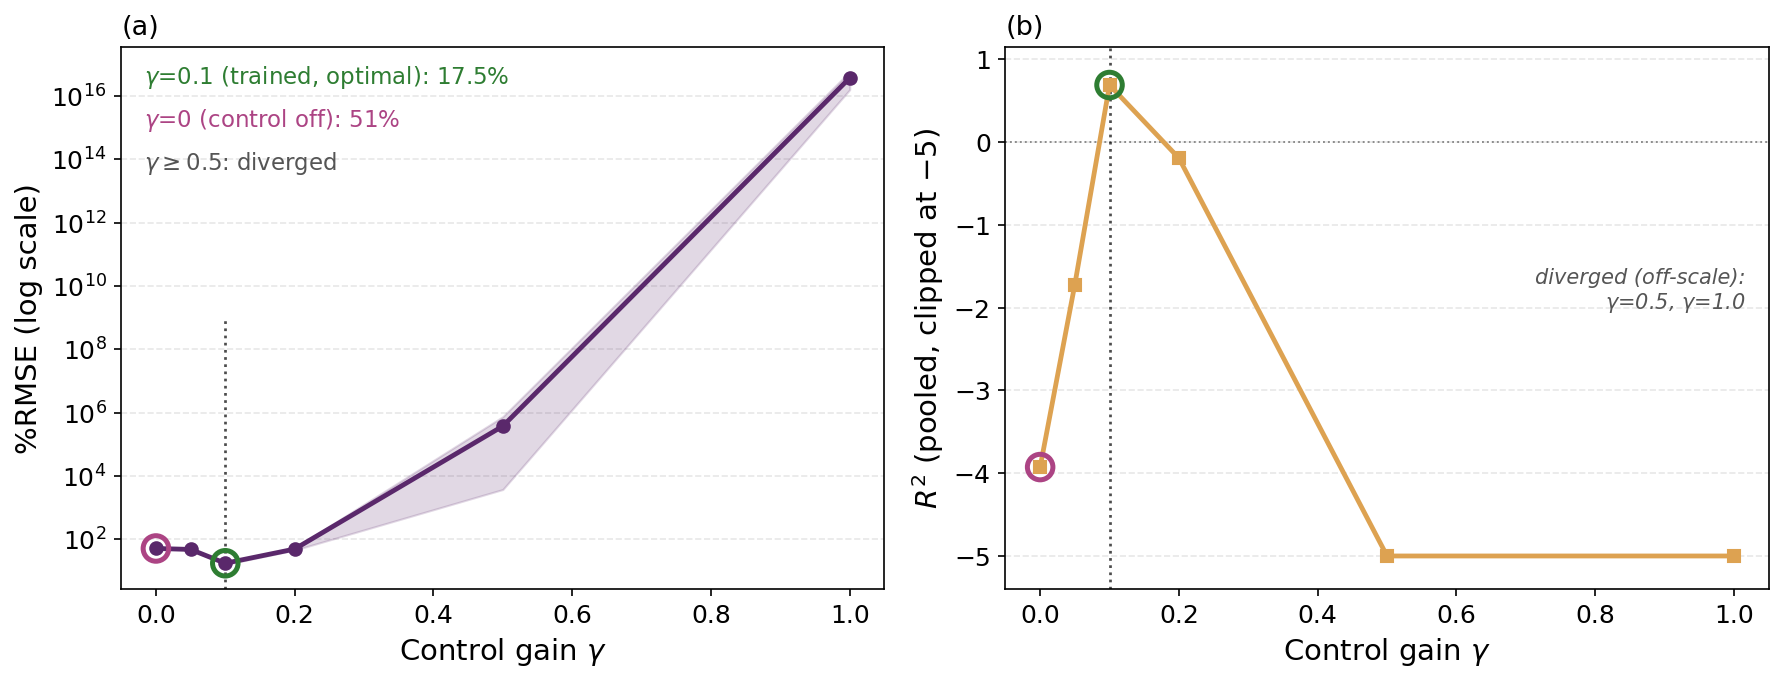
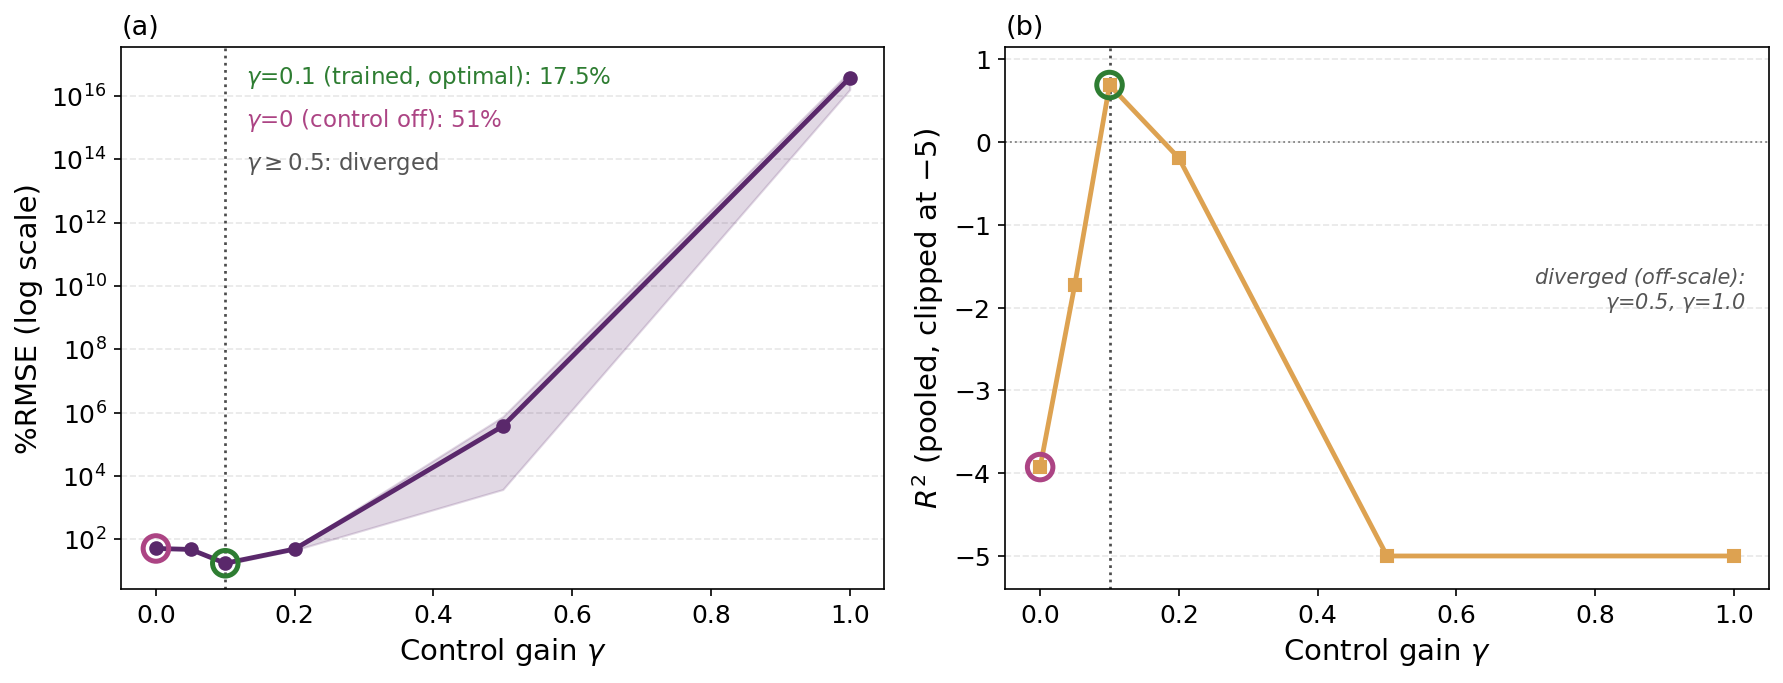
Figure S7 panel (a): full-height trained-gamma line; shift notes right of it
Restore the full-range vertical guide line and anchor the annotations just to
the right of it (x in data coords) so they no longer overlap the line.

Changed region(s): [[0.0925, 0.0922, 0.3393, 0.123], [0.0925, 0.1537, 0.2776, 0.1845], [0.0925, 0.2152, 0.2468, 0.246]]

diff --git a/scripts/revision2/task_b_gamma_sweep.py b/scripts/revision2/task_b_gamma_sweep.py
@@ -100,8 +100,7 @@ def main():
     ax1.fill_between(g_arr, pct_arr - e, pct_arr + e, color=c1, alpha=0.18)
     ax1.plot(g_arr, pct_arr, "o-", color=c1, lw=2.3, ms=6, zorder=4)
     ax1.set_yscale("log")
-    # partial guide line (lower region only) so it does not cross the upper-left notes
-    ax1.axvline(trained_gamma, color="k", ls=":", lw=1.3, alpha=0.7, ymax=0.5)
+    ax1.axvline(trained_gamma, color="k", ls=":", lw=1.3, alpha=0.7)
     # flag the trained and control-off points with open rings
     ax1.scatter([g_arr[gi_tr]], [pct_arr[gi_tr]], s=150, facecolors="none",
                 edgecolors=c_tr, linewidths=2.4, zorder=6)
@@ -111,8 +110,11 @@ def main():
     notes_a = [(f"$\\gamma$=0.1 (trained, optimal): {pct_arr[gi_tr]:.1f}%", c_tr),
                (f"$\\gamma$=0 (control off): {pct_arr[gi_ab]:.0f}%", c_ab),
                (r"$\gamma\geq$0.5: diverged", "#555555")]
+    # place the notes just to the RIGHT of the trained-gamma line (x in data, y in axes)
+    from matplotlib.transforms import blended_transform_factory
+    trans_a = blended_transform_factory(ax1.transData, ax1.transAxes)
     for i, (txt, col) in enumerate(notes_a):
-        ax1.text(0.03, 0.97 - i * 0.08, txt, transform=ax1.transAxes,
+        ax1.text(trained_gamma + 0.03, 0.97 - i * 0.08, txt, transform=trans_a,
                  va="top", ha="left", fontsize=TICK - 1, color=col)
     ax1.set_xlabel(r"Control gain $\gamma$", fontsize=AXLAB)
     ax1.set_ylabel("%RMSE (log scale)", fontsize=AXLAB)
